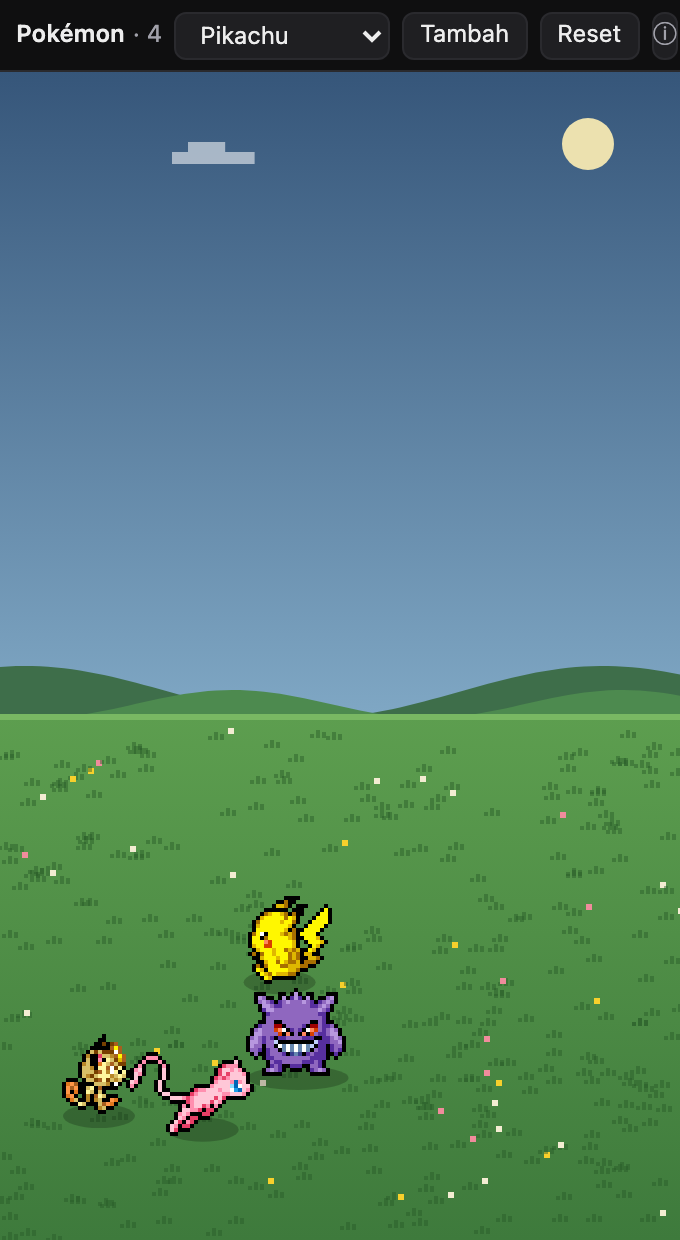
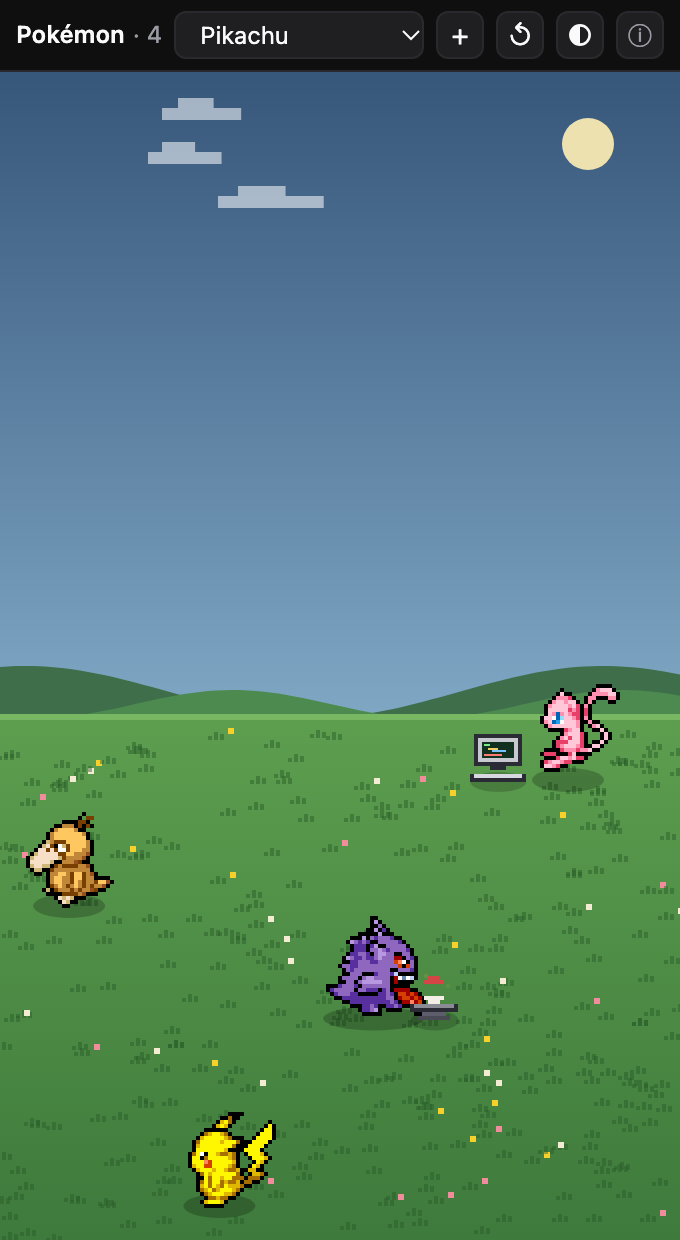
English everywhere: panel tooltips, sky labels and manifest
The toolbar tooltips and aria-labels, the sky button labels and the plugin
description were still in Indonesian; they are English now, like the rest
of the panel and the README.

The README screenshots showed the old toolbar with its "Tambah" button, so
they are re-rendered from the current panel: workers with their kits by
day, sleepers and the forced-night sky button at night.

diff --git a/plugin-src/panel.template.html b/plugin-src/panel.template.html
@@ -30,11 +30,11 @@
 
 <div class="bar">
   <span class="title">Pokémon<span class="count" id="count"></span></span>
-  <select id="pick" aria-label="Pilih Pokémon"></select>
-  <button id="add" class="icon" title="Tambah Pokémon yang dipilih" aria-label="Tambah">+</button>
-  <button id="reset" class="icon" title="Kembalikan rombongan awal" aria-label="Reset">↺</button>
-  <button id="sky" class="icon" aria-label="Langit"></button>
-  <button class="icon info" title="Klik Pokémon untuk menyapa. Malam hari mereka tidur.&#10;Sesekali siapa pun yang di padang ikut kerja dengan alatnya sendiri: PC kecil (coding), Pokédex (riset), mesin Pokémon Center (test), landasan (build), surat (deploy).&#10;Tombol langit: otomatis ikut jam, atau paksa siang / senja / malam.&#10;Sprite: PMD Sprite Repository (SpriteCollab), CC BY-NC 4.0." aria-label="Info">ⓘ</button>
+  <select id="pick" aria-label="Choose a Pokémon"></select>
+  <button id="add" class="icon" title="Add the selected Pokémon" aria-label="Add">+</button>
+  <button id="reset" class="icon" title="Restore the starting party" aria-label="Reset">↺</button>
+  <button id="sky" class="icon" aria-label="Sky"></button>
+  <button class="icon info" title="Click a Pokémon to say hi. At night they sleep.&#10;Every so often whoever is on the field gets to work with its own kit: a little PC (coding), the Pokédex (research), a Pokémon Center machine (tests), an anvil (build), a letter (deploy).&#10;Sky button: follow the clock, or force day / dusk / night.&#10;Sprites: PMD Sprite Repository (SpriteCollab), CC BY-NC 4.0." aria-label="Info">ⓘ</button>
 </div>
 <canvas id="c"></canvas>
 
@@ -108,7 +108,7 @@ function frameAt (anim, ms) {
 // Sky: follows the clock ('auto') or is forced to a time of day by the sky
 // button. Not persisted — panels can't use storage — so it opens on 'auto'.
 const SKY_MODES = ['auto', 'day', 'dusk', 'night']
-const SKY_LABEL = { auto: 'Langit: otomatis (ikut jam)', day: 'Langit: siang', dusk: 'Langit: senja', night: 'Langit: malam' }
+const SKY_LABEL = { auto: 'Sky: auto (follows the clock)', day: 'Sky: day', dusk: 'Sky: dusk', night: 'Sky: night' }
 const SKY_ICON = {
   auto: '<svg viewBox="0 0 16 16" fill="none" stroke="currentColor" stroke-width="1.5"><circle cx="8" cy="8" r="5.5"/><path d="M8 2.5a5.5 5.5 0 0 0 0 11z" fill="currentColor" stroke="none"/></svg>',
   day: '<svg viewBox="0 0 16 16" fill="none" stroke="currentColor" stroke-width="1.5" stroke-linecap="round"><circle cx="8" cy="8" r="2.8"/><path d="M8 1.5v1.6M8 12.9v1.6M1.5 8h1.6M12.9 8h1.6M3.4 3.4l1.1 1.1M11.5 11.5l1.1 1.1M3.4 12.6l1.1-1.1M11.5 4.5l1.1-1.1"/></svg>',
@@ -141,7 +141,7 @@ function applySky () {
 function renderSkyButton () {
   const btn = document.getElementById('sky')
   btn.innerHTML = SKY_ICON[skyMode]
-  btn.title = `${SKY_LABEL[skyMode]} — klik untuk ganti`
+  btn.title = `${SKY_LABEL[skyMode]} — click to change`
   btn.setAttribute('aria-label', SKY_LABEL[skyMode])
   btn.classList.toggle('forced', skyMode !== 'auto')
 }

diff --git a/plugin/pokemon-pets/panel.html b/plugin/pokemon-pets/panel.html
@@ -30,11 +30,11 @@
 
 <div class="bar">
   <span class="title">Pokémon<span class="count" id="count"></span></span>
-  <select id="pick" aria-label="Pilih Pokémon"></select>
-  <button id="add" class="icon" title="Tambah Pokémon yang dipilih" aria-label="Tambah">+</button>
-  <button id="reset" class="icon" title="Kembalikan rombongan awal" aria-label="Reset">↺</button>
-  <button id="sky" class="icon" aria-label="Langit"></button>
-  <button class="icon info" title="Klik Pokémon untuk menyapa. Malam hari mereka tidur.&#10;Sesekali siapa pun yang di padang ikut kerja dengan alatnya sendiri: PC kecil (coding), Pokédex (riset), mesin Pokémon Center (test), landasan (build), surat (deploy).&#10;Tombol langit: otomatis ikut jam, atau paksa siang / senja / malam.&#10;Sprite: PMD Sprite Repository (SpriteCollab), CC BY-NC 4.0." aria-label="Info">ⓘ</button>
+  <select id="pick" aria-label="Choose a Pokémon"></select>
+  <button id="add" class="icon" title="Add the selected Pokémon" aria-label="Add">+</button>
+  <button id="reset" class="icon" title="Restore the starting party" aria-label="Reset">↺</button>
+  <button id="sky" class="icon" aria-label="Sky"></button>
+  <button class="icon info" title="Click a Pokémon to say hi. At night they sleep.&#10;Every so often whoever is on the field gets to work with its own kit: a little PC (coding), the Pokédex (research), a Pokémon Center machine (tests), an anvil (build), a letter (deploy).&#10;Sky button: follow the clock, or force day / dusk / night.&#10;Sprites: PMD Sprite Repository (SpriteCollab), CC BY-NC 4.0." aria-label="Info">ⓘ</button>
 </div>
 <canvas id="c"></canvas>
 
@@ -108,7 +108,7 @@ function frameAt (anim, ms) {
 // Sky: follows the clock ('auto') or is forced to a time of day by the sky
 // button. Not persisted — panels can't use storage — so it opens on 'auto'.
 const SKY_MODES = ['auto', 'day', 'dusk', 'night']
-const SKY_LABEL = { auto: 'Langit: otomatis (ikut jam)', day: 'Langit: siang', dusk: 'Langit: senja', night: 'Langit: malam' }
+const SKY_LABEL = { auto: 'Sky: auto (follows the clock)', day: 'Sky: day', dusk: 'Sky: dusk', night: 'Sky: night' }
 const SKY_ICON = {
   auto: '<svg viewBox="0 0 16 16" fill="none" stroke="currentColor" stroke-width="1.5"><circle cx="8" cy="8" r="5.5"/><path d="M8 2.5a5.5 5.5 0 0 0 0 11z" fill="currentColor" stroke="none"/></svg>',
   day: '<svg viewBox="0 0 16 16" fill="none" stroke="currentColor" stroke-width="1.5" stroke-linecap="round"><circle cx="8" cy="8" r="2.8"/><path d="M8 1.5v1.6M8 12.9v1.6M1.5 8h1.6M12.9 8h1.6M3.4 3.4l1.1 1.1M11.5 11.5l1.1 1.1M3.4 12.6l1.1-1.1M11.5 4.5l1.1-1.1"/></svg>',
@@ -141,7 +141,7 @@ function applySky () {
 function renderSkyButton () {
   const btn = document.getElementById('sky')
   btn.innerHTML = SKY_ICON[skyMode]
-  btn.title = `${SKY_LABEL[skyMode]} — klik untuk ganti`
+  btn.title = `${SKY_LABEL[skyMode]} — click to change`
   btn.setAttribute('aria-label', SKY_LABEL[skyMode])
   btn.classList.toggle('forced', skyMode !== 'auto')
 }

diff --git a/plugin-src/build.py b/plugin-src/build.py
@@ -36,7 +36,7 @@ MANIFEST = {
     "publisher": "luthfi",
     "name": "Pokémon Pets",
     "version": "1.1.0",
-    "description": "Pokémon berjalan-jalan di panel sidebar Orca dan sesekali bekerja dengan alat masing-masing: PC kecil untuk ngoding, Pokédex untuk riset, mesin Pokémon Center untuk test, landasan untuk build, dan surat untuk deploy. Klik untuk menyapa; malam hari mereka tidur.",
+    "description": "Pokémon wander around an Orca sidebar panel and every so often get to work, each with its own kit: a little PC for coding, the Pokédex for research, a Pokémon Center machine for tests, an anvil for builds and a letter for deploys. Click one to say hi; at night they sleep.",
     "author": {"name": "Luthfi"},
     "engines": {"orca": ">=1.4.0"},
     "pluginApi": 1,
